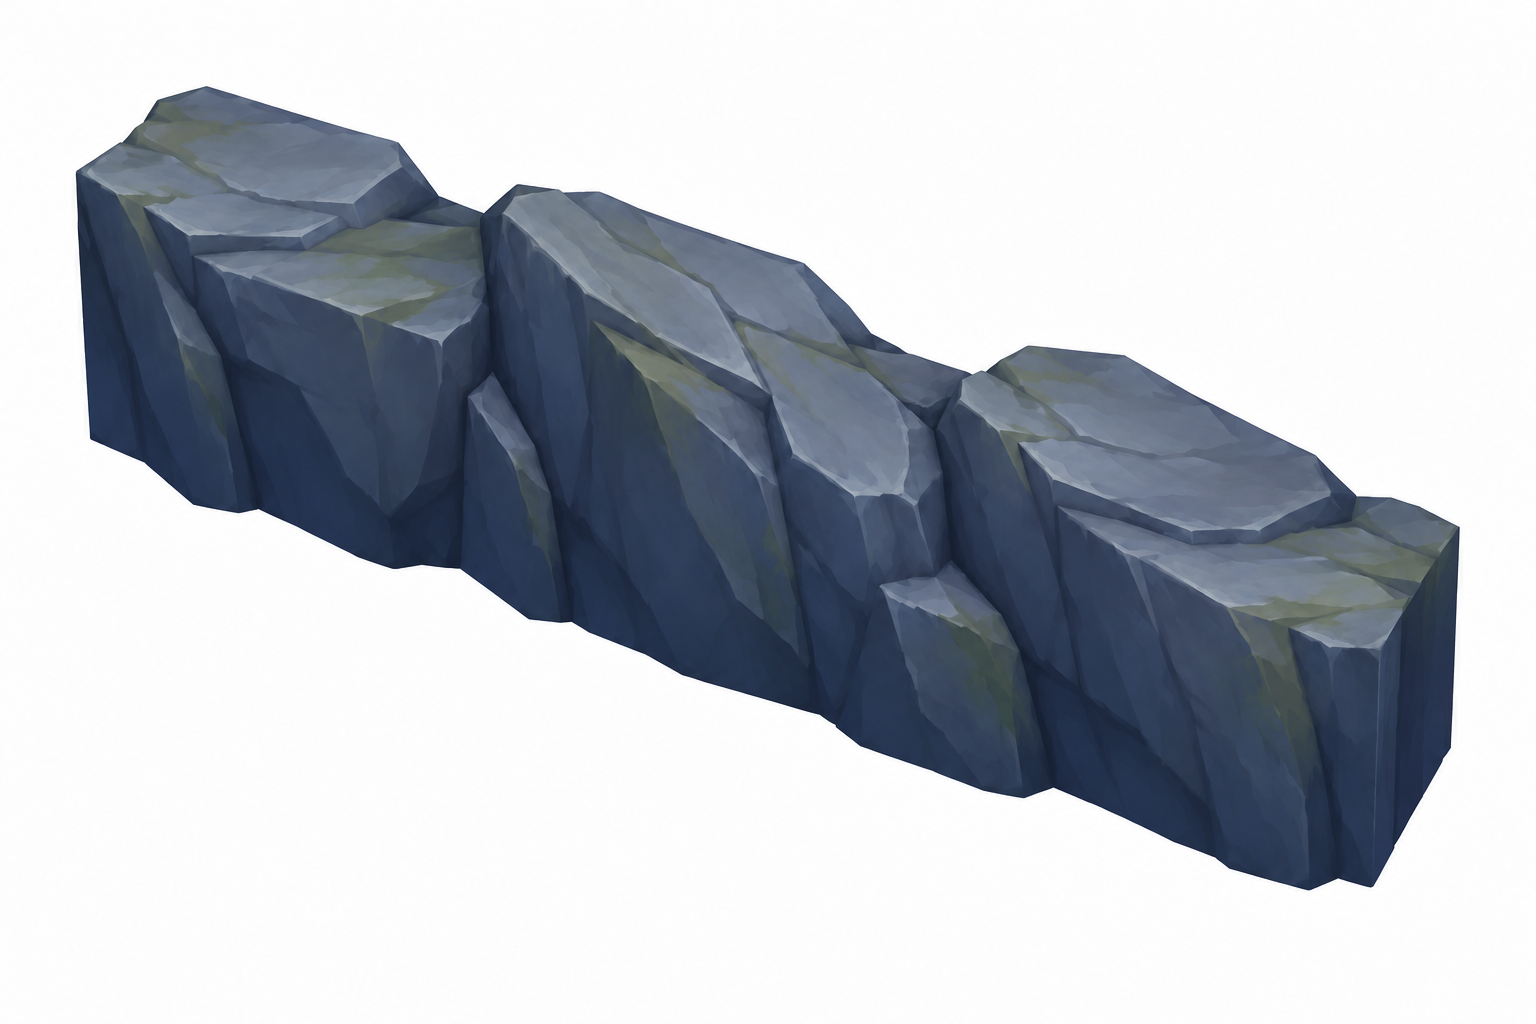
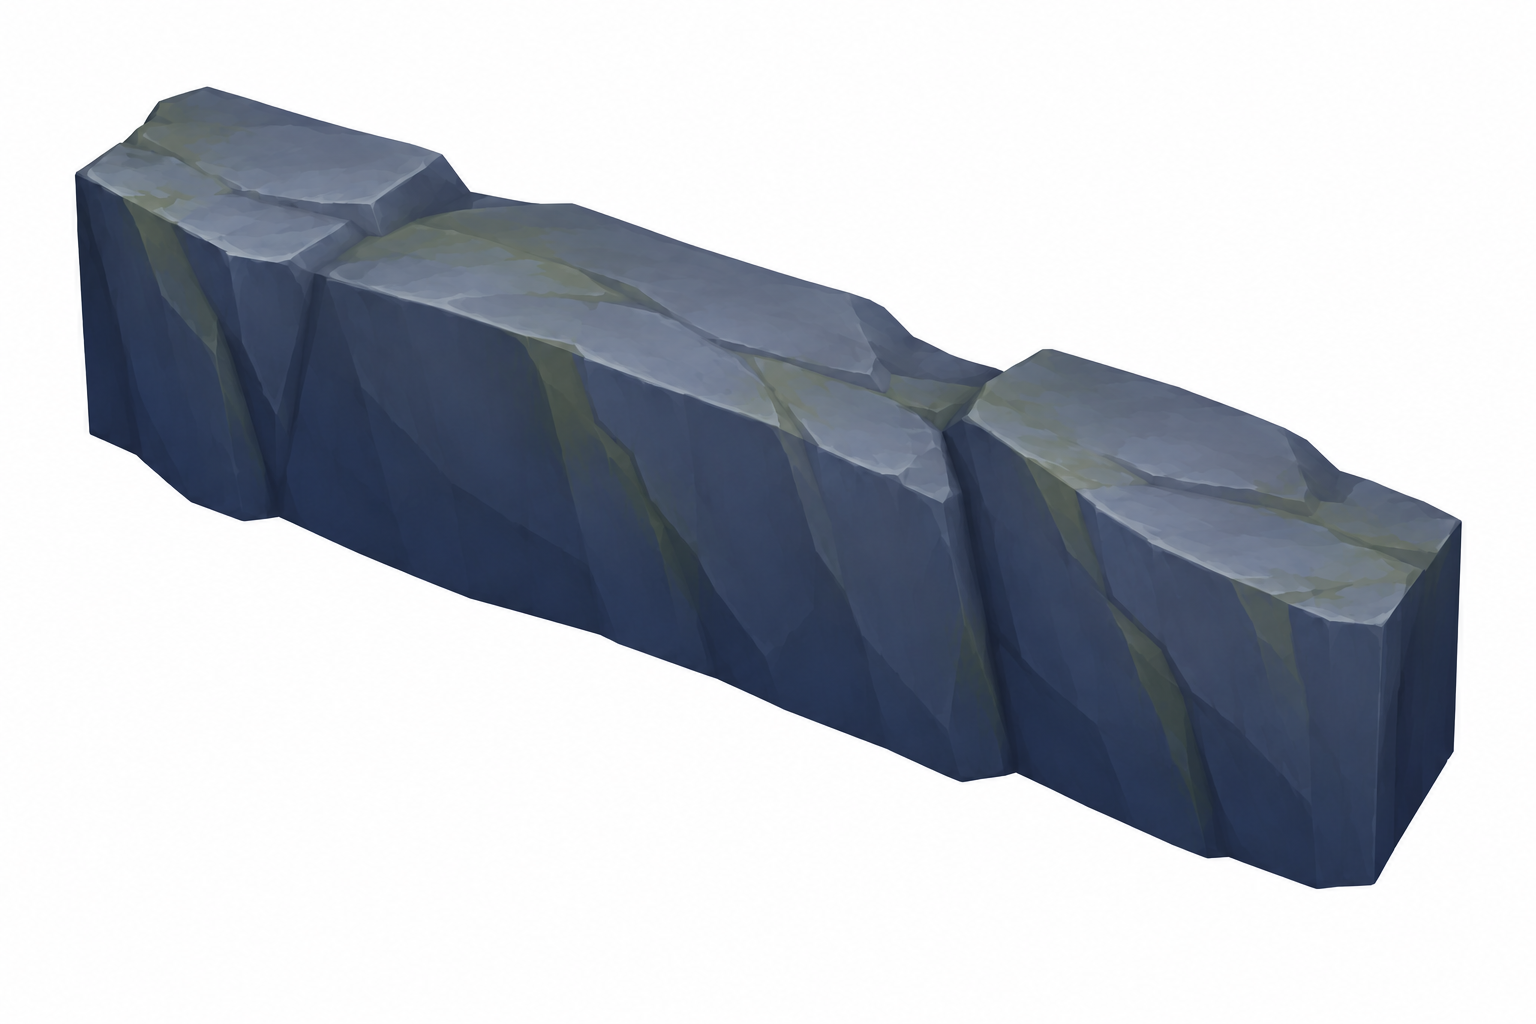
art: smooth modular cliff for repeated map borders

diff --git a/art_inbox/YEU_CAU_KIT_MAP.md b/art_inbox/YEU_CAU_KIT_MAP.md
@@ -70,7 +70,7 @@ with identical cross-section, constant thickness and height along the whole leng
 
 ## Đợt K0 — Thử phong cách (4 ảnh) — làm rồi DỪNG
 
-- [x] `vach_48.png` — viền đá 4,8 × 1,2 × khoảng 1,5 m. 3–4 khối đá lớn liền thành vách cao gần mặt tướng,
+- [x] `vach_48.png` — viền đá 4,8 × 1,2 × khoảng 1,5 m. 2–3 khối đá lớn, mặt rộng mượt liền thành vách cao gần mặt tướng,
   đủ rõ là vùng không đi qua; mặt đá trơ, không dựng cây/bụi trên vách.
 - [x] `bo_song_48.png` — bờ sông 4,8 × 1,2 × 0,5 m. Gờ đá thấp: một cạnh dài mép cỏ, cạnh kia **mặt đá
   dốc tối ướt** xuống nước.
@@ -82,6 +82,7 @@ K0 làm lại theo bản 2: bản 1 có vách giống tường gạch và mảng
 K0 chỉnh tiếp theo ảnh Tốc Chiến người dùng gửi: cây và đá tự nhiên hơn, màu xanh rêu/xám đá trầm hơn; thay bốn ảnh K0 để đồng bộ.
 K0 chỉnh theo ảnh trận mới: cây mẫu đổi sang dáng thông (giữ tên `cay_tron_a.png` để không đứt luồng thử hiện tại); viền đá và bờ sông chỉ còn khối đá lớn, không dựng cây/bụi trên đá để giảm số tam giác khi chuyển 3D. Cần chốt tên cây chính thức khi duyệt.
 K0 tăng chiều cao riêng `vach_48` từ 1,2 m lên khoảng 1,5 m theo góp ý: mặt vách tới gần mặt tướng để nhận ra vật cản. `bo_song_48` vẫn là bờ thấp 0,5 m.
+K0 giảm chỗ gồ trên `vach_48`: dùng dãy đá dài lặp lại làm phần lớn đường chặn, chỉ đặt ít cây riêng để tạo điểm nhấn; vết nứt/chuyển sắc nên nằm trong ảnh màu để tiết kiệm tam giác 3D.
 
 ## Đợt K1 — Dãy đá (game uốn cong theo đường)
 
